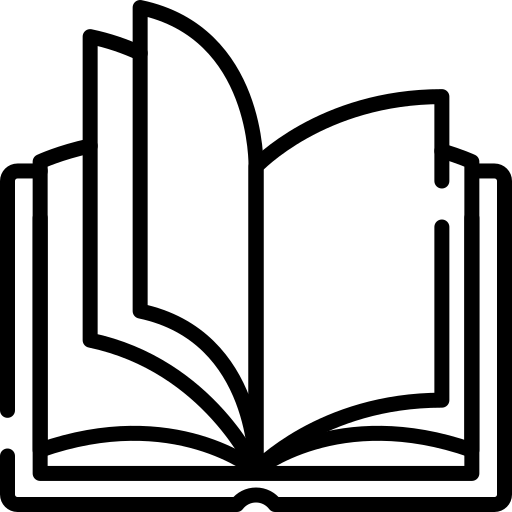
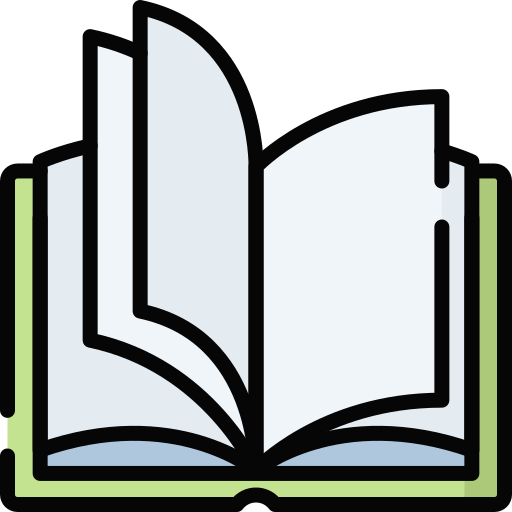
fixed the book animation

Changed region(s): [[0.0, 0.3125, 0.9688, 0.9688], [0.2812, 0.0312, 0.5, 0.75]]

diff --git a/Frontend/app/(RecipePage)/RecipeSuggestion.tsx b/Frontend/app/(RecipePage)/RecipeSuggestion.tsx
@@ -6,6 +6,7 @@ import { useUserStore } from '@/stores/useUserStore';
 import { getIngredients } from '@/api/ingredientService';
 import { generateRecipes } from '@/api/recipeService';
 import RecipeCard from '@/components/RecipePage/RecipeCard';
+import BookLoader from '@/components/RecipePage/BookLoader';
 
 // Import our color theme
 import pageStyles from '@/styles/RecipePageStyle';
@@ -64,8 +65,7 @@ export default function RecipeSuggestions() {
     return (
       <SafeAreaView style={styles.safeArea}>
         <View style={styles.loadingContainer}>
-          <ActivityIndicator size="large" color={COLORS.accent} />
-          <Text style={styles.loadingText}>Looking for recipe ideas...</Text>
+          <BookLoader message="Looking for recipe ideas..." />
         </View>
       </SafeAreaView>
     );

diff --git a/Frontend/components/RecipePage/Recipes.tsx b/Frontend/components/RecipePage/Recipes.tsx
@@ -5,6 +5,7 @@ import { getRecipes } from '@/api/recipeService';
 import RecipeCard from '@/components/RecipePage/RecipeCard';
 import { useRouter } from 'expo-router';
 import styles from '@/styles/RecipePageStyle';
+import BookLoader from '@/components/RecipePage/BookLoader';
 
 // Ensure COLORS is correctly imported or defined
 const COLORS = {
@@ -49,8 +50,7 @@ const RecipesPage = () => {
   if (userId === undefined || loading) {
     return (
       <SafeAreaView style={styles.loadingContainer}>
-        <ActivityIndicator size="large" color={COLORS.accent} />
-        <Text style={{ marginTop: 12, color: COLORS.text }}>Loading your recipes...</Text>
+        <BookLoader message="Loading recipes..." />
       </SafeAreaView>
     );
   }
